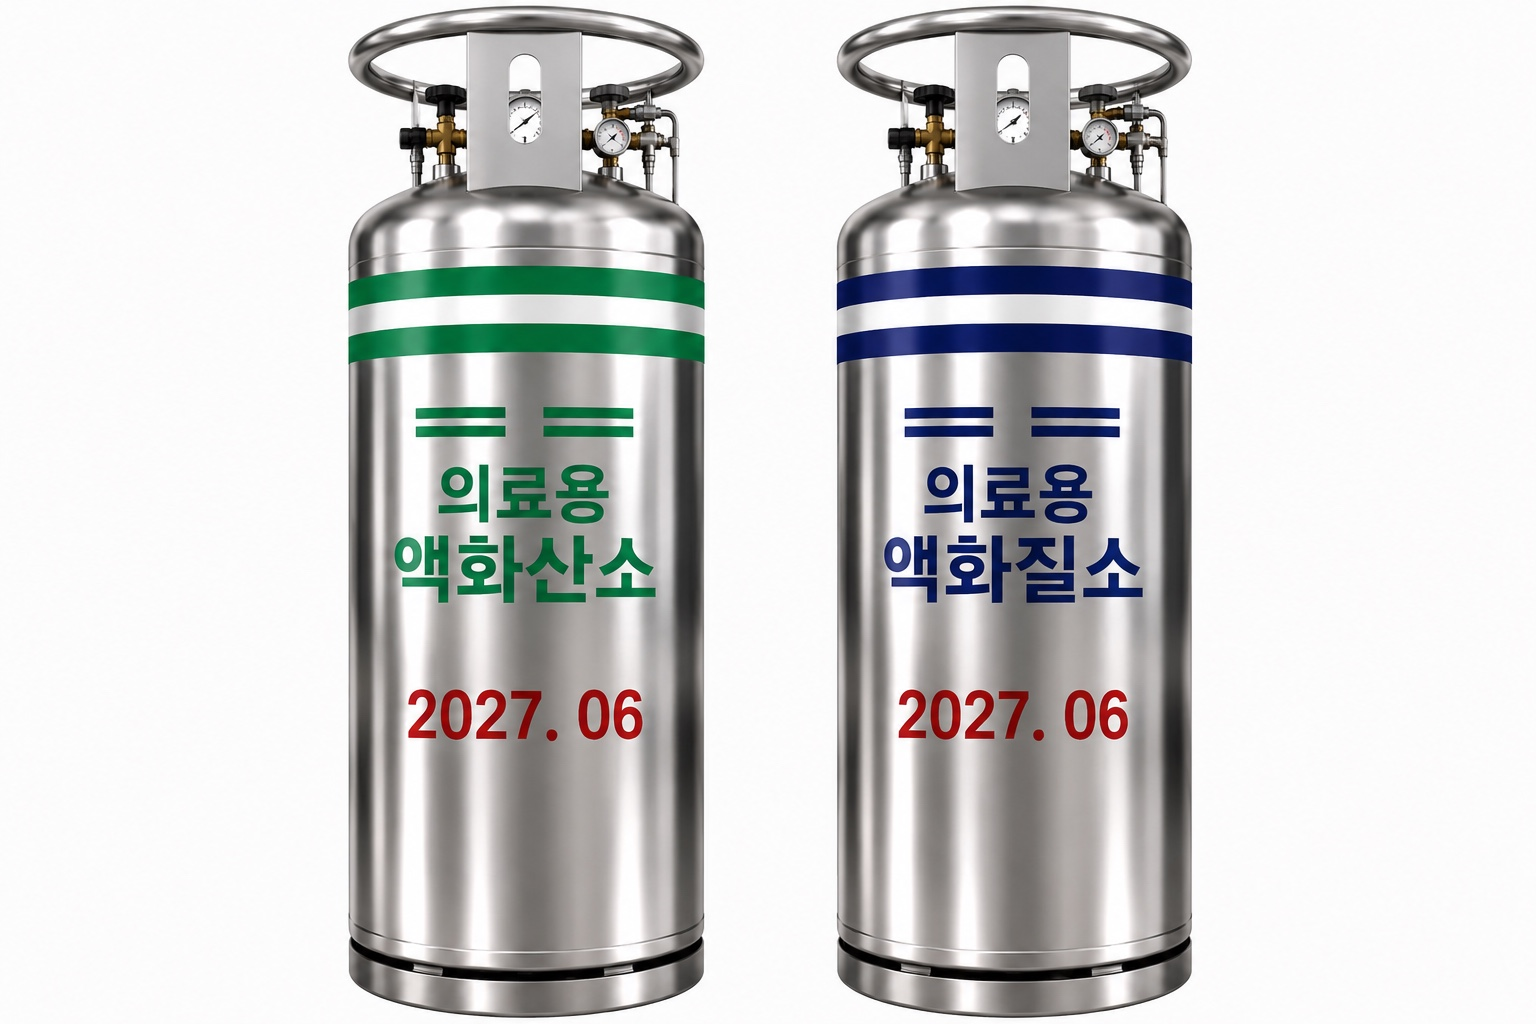
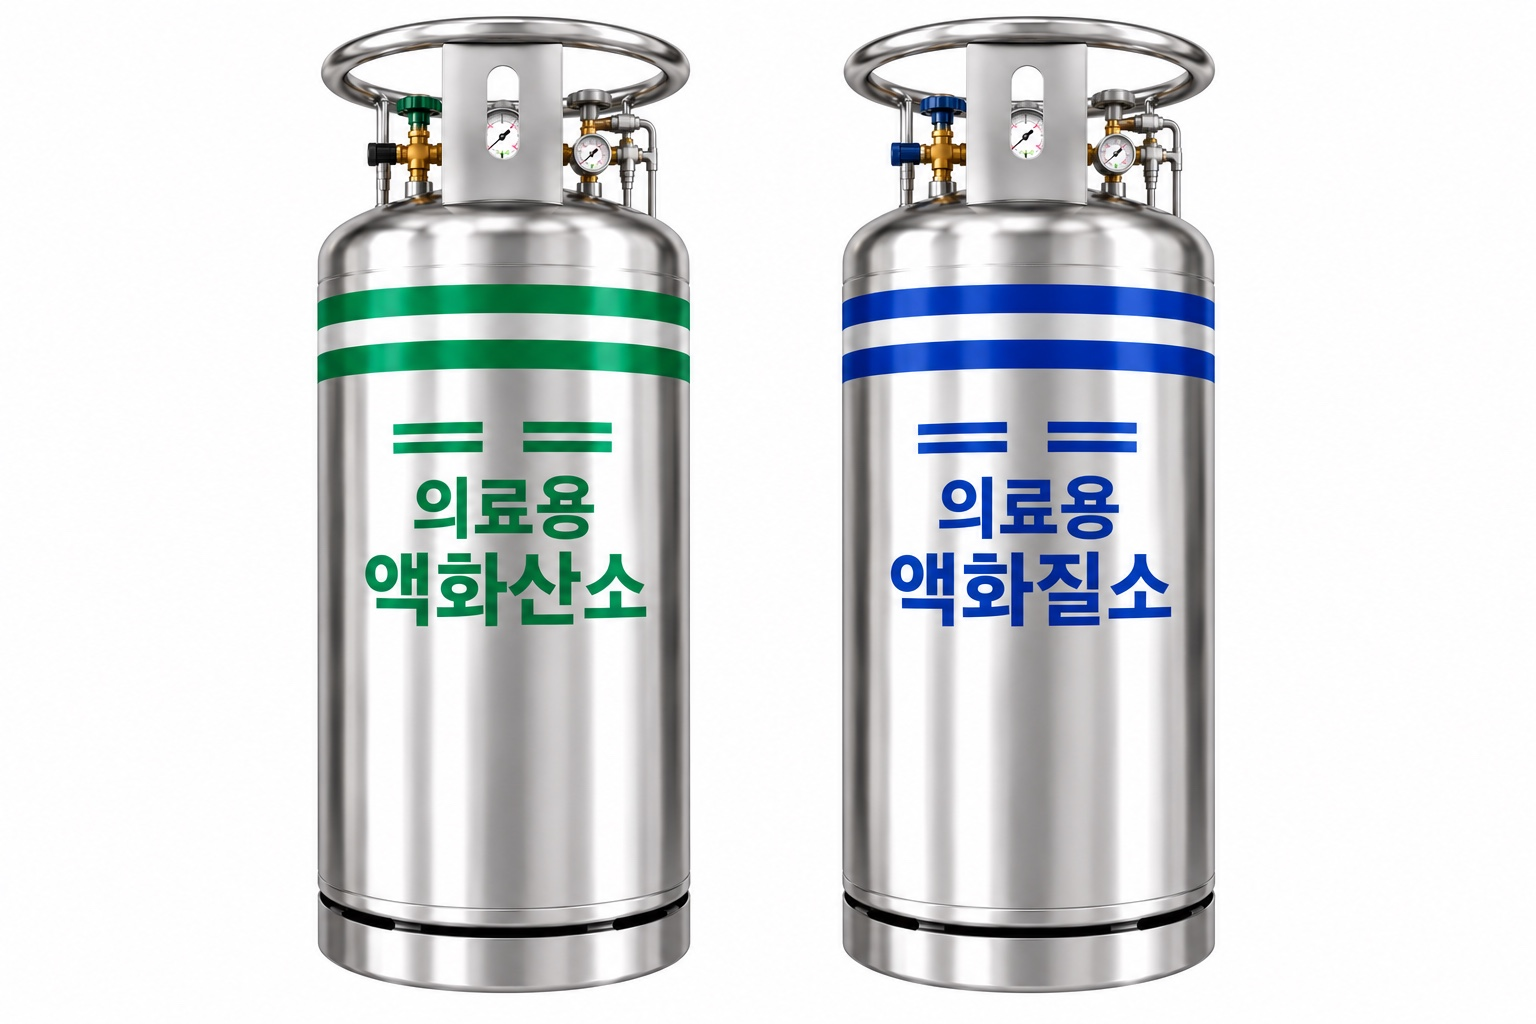
의료용 액화가스 카드 사진을 신규 저장탱크 2종 이미지(의료용 액화산소·액화질소)로 교체(med-liquefied.jpg ?v=20260909)

diff --git a/products-gas.html b/products-gas.html
@@ -205,7 +205,7 @@
                     <span class="pgcard__ic pgcard__ic--img" aria-hidden="true"><img src="assets/images/site/prodtab/ic-liquefied.png?v=20260909" alt="" loading="lazy"></span>
                     <div><b class="pgcard__name">의료용 액화가스</b><span class="pgcard__lead">대용량 의료 현장을 위한 초저온 액화가스를 공급합니다.</span></div>
                   </div>
-                  <a class="pgcard__media" href="support.html"><img src="assets/images/site/med-liquefied.jpg?v=20260831b" alt="의료용 액화산소·액화질소 저장용기" loading="lazy"></a>
+                  <a class="pgcard__media" href="support.html"><img src="assets/images/site/med-liquefied.jpg?v=20260909" alt="의료용 액화산소·액화질소 저장용기" loading="lazy"></a>
                   <p class="pgcard__text pgcard__text--gases">의료용 액화산소, 의료용 액화질소</p>
                 </li>
               </ul>
